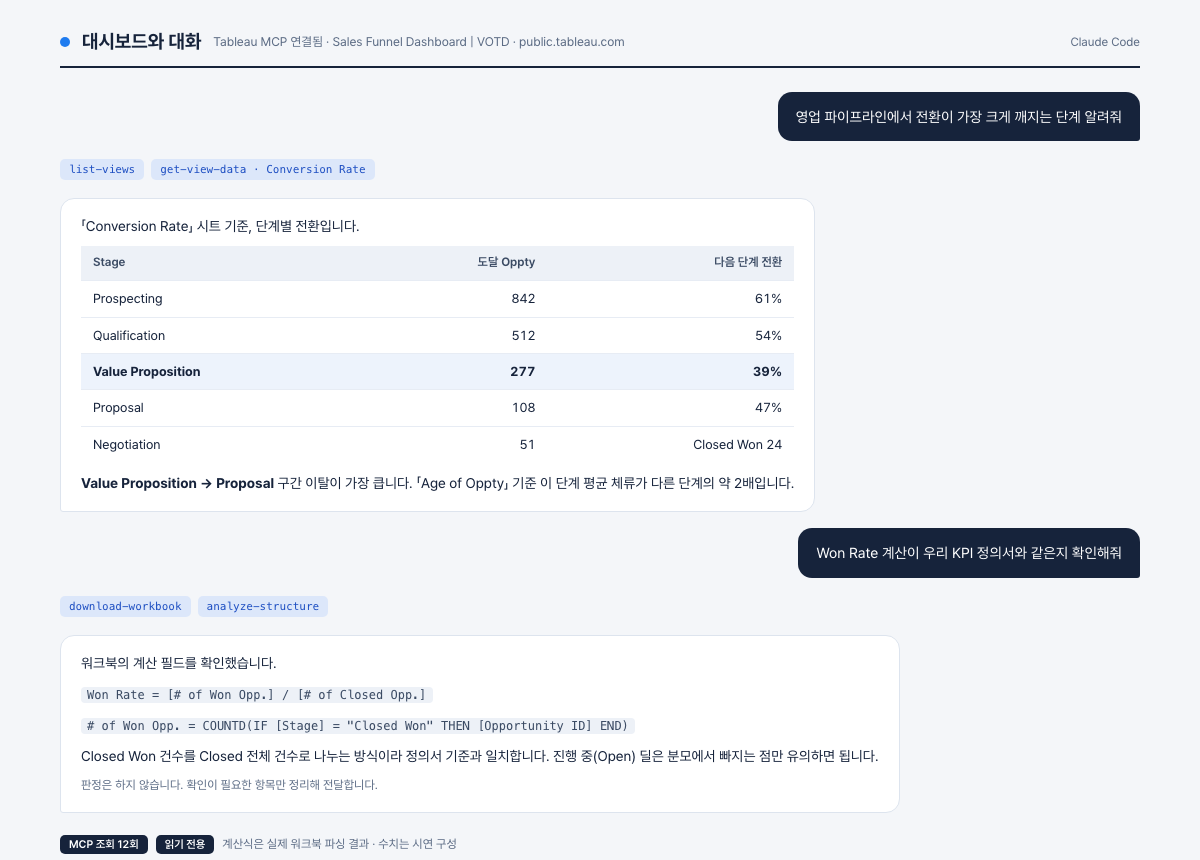
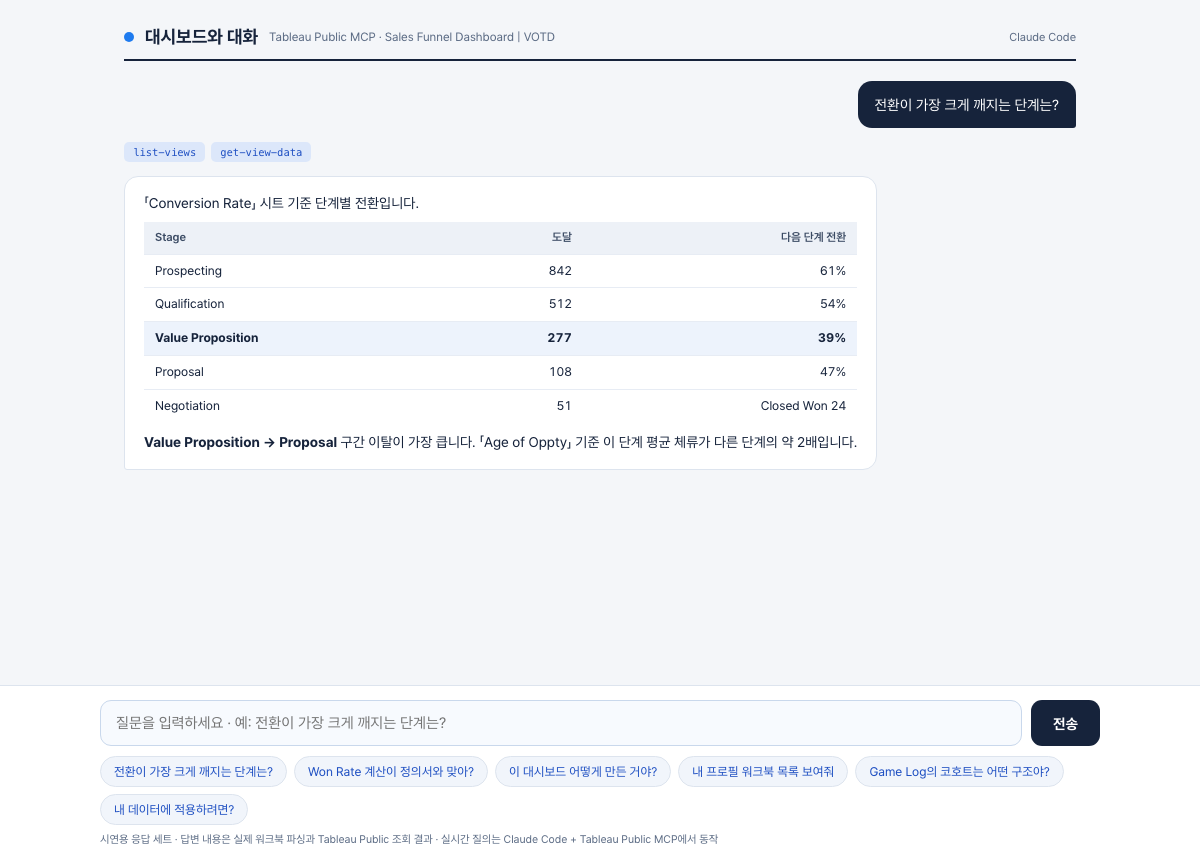
demo_chat 입력 가능한 시연 화면으로 전환

diff --git a/usecases/demo_chat.html b/usecases/demo_chat.html
@@ -2,37 +2,52 @@
 <html lang="ko">
 <head>
 <meta charset="utf-8">
-<title>대시보드와 대화</title>
+<meta name="viewport" content="width=device-width, initial-scale=1">
+<title>대시보드와 대화 · 시연</title>
 <style>
 *{box-sizing:border-box;margin:0;padding:0}
 body{font-family:'Pretendard','Apple SD Gothic Neo',sans-serif;background:#F4F6F9;color:#16233B;
   -webkit-font-smoothing:antialiased}
-.page{max-width:1160px;margin:0 auto;padding:30px 40px 38px}
-.hd{display:flex;align-items:center;gap:12px;border-bottom:2px solid #16233B;padding-bottom:13px}
+.page{max-width:1000px;margin:0 auto;padding:26px 24px 120px}
+.hd{display:flex;align-items:center;gap:11px;border-bottom:2px solid #16233B;padding-bottom:12px}
 .hd .dot{width:10px;height:10px;border-radius:50%;background:#1E7BEF}
-.hd h1{font-size:19px;font-weight:700}
-.hd .sub{font-size:12.5px;color:#5B6B84}
-.hd .gen{margin-left:auto;font-size:12px;color:#5B6B84}
-.chat{margin-top:24px;display:flex;flex-direction:column;gap:16px}
-.u{align-self:flex-end;max-width:62%;background:#16233B;color:#fff;border-radius:14px 14px 3px 14px;
-  padding:13px 18px;font-size:14.5px;line-height:1.6}
-.chips{display:flex;gap:7px;align-items:center;margin:2px 0}
-.chip{font-family:'SF Mono',Menlo,monospace;font-size:11px;background:#E4EBF5;color:#3A4A63;
+.hd h1{font-size:18px;font-weight:700}
+.hd .sub{font-size:12px;color:#5B6B84}
+.hd .gen{margin-left:auto;font-size:11.5px;color:#5B6B84}
+.chat{margin-top:20px;display:flex;flex-direction:column;gap:14px}
+.u{align-self:flex-end;max-width:68%;background:#16233B;color:#fff;border-radius:14px 14px 3px 14px;
+  padding:12px 17px;font-size:14.5px;line-height:1.6}
+.chips{display:flex;gap:6px;flex-wrap:wrap}
+.chip{font-family:'SF Mono',Menlo,monospace;font-size:10.5px;background:#DCE7FA;color:#1E4FC2;
   border-radius:5px;padding:4px 9px}
-.chip.h{background:#DCE7FA;color:#1E4FC2}
-.a{align-self:flex-start;max-width:78%;background:#fff;border:1px solid #DDE4EE;border-radius:14px 14px 14px 3px;
-  padding:16px 20px;font-size:14px;line-height:1.65}
-.a p{margin-bottom:8px}
-.a p:last-child{margin-bottom:0}
-.a table{width:100%;border-collapse:collapse;font-size:13px;margin:6px 0 10px}
-.a th{text-align:left;color:#3A4A63;background:#EDF1F7;font-weight:600;padding:7px 12px;font-size:12px}
-.a td{padding:7px 12px;border-top:1px solid #E7ECF4}
+.a{align-self:flex-start;max-width:82%;background:#fff;border:1px solid #DDE4EE;
+  border-radius:14px 14px 14px 3px;padding:15px 19px;font-size:14px;line-height:1.66}
+.a p{margin-bottom:7px}.a p:last-child{margin-bottom:0}
+.a table{width:100%;border-collapse:collapse;font-size:12.5px;margin:6px 0 9px}
+.a th{text-align:left;background:#EDF1F7;color:#3A4A63;font-weight:600;padding:6px 11px;font-size:11.5px}
+.a td{padding:6px 11px;border-top:1px solid #E7ECF4}
 .a .num{text-align:right;font-variant-numeric:tabular-nums}
 .a .hl td{background:#EDF3FC;font-weight:700}
-code{font-family:'SF Mono',Menlo,monospace;font-size:12px;background:#EDF1F7;border-radius:4px;padding:1px 6px;color:#3A4A63}
-.note{font-size:12px;color:#5B6B84}
-.foot{margin-top:22px;display:flex;gap:8px;align-items:center;font-size:12px;color:#5B6B84}
-.foot .b{background:#16233B;color:#fff;border-radius:5px;padding:3px 9px;font-size:11px;font-weight:600}
+code{font-family:'SF Mono',Menlo,monospace;font-size:11.5px;background:#EDF1F7;border-radius:4px;
+  padding:2px 6px;color:#3A4A63;word-break:break-all}
+.note{font-size:11.5px;color:#5B6B84}
+.typing span{display:inline-block;width:6px;height:6px;border-radius:50%;background:#9DB4D4;margin-right:3px;
+  animation:b 1s infinite}
+.typing span:nth-child(2){animation-delay:.15s}.typing span:nth-child(3){animation-delay:.3s}
+@keyframes b{0%,60%,100%{opacity:.3}30%{opacity:1}}
+.bar{position:fixed;left:0;right:0;bottom:0;background:#fff;border-top:1px solid #DDE4EE;padding:14px 24px}
+.barin{max-width:1000px;margin:0 auto}
+.row{display:flex;gap:9px}
+input{flex:1;border:1px solid #C9D8EC;border-radius:11px;padding:13px 15px;font-size:15px;
+  font-family:inherit;color:#16233B;background:#F7FAFE}
+input:focus{outline:2px solid #1E4FC2;background:#fff}
+button{background:#16233B;color:#fff;border:0;border-radius:11px;padding:0 22px;font-size:14.5px;
+  font-weight:700;font-family:inherit;cursor:pointer}
+.qs{display:flex;gap:7px;flex-wrap:wrap;margin-top:10px}
+.q{background:#F1F5FB;border:1px solid #DDE4EE;border-radius:999px;padding:7px 13px;font-size:12.5px;
+  color:#1E4FC2;cursor:pointer}
+.q:hover{border-color:#1E4FC2}
+.foot{max-width:1000px;margin:8px auto 0;font-size:11px;color:#5B6B84}
 </style>
 </head>
 <body>
@@ -40,44 +55,117 @@ code{font-family:'SF Mono',Menlo,monospace;font-size:12px;background:#EDF1F7;bor
   <div class="hd">
     <span class="dot"></span>
     <h1>대시보드와 대화</h1>
-    <span class="sub">Tableau MCP 연결됨 · Sales Funnel Dashboard | VOTD · public.tableau.com</span>
+    <span class="sub">Tableau Public MCP · Sales Funnel Dashboard | VOTD</span>
     <span class="gen">Claude Code</span>
   </div>
-
-  <div class="chat">
-    <div class="u">영업 파이프라인에서 전환이 가장 크게 깨지는 단계 알려줘</div>
-
-    <div class="chips"><span class="chip h">list-views</span><span class="chip h">get-view-data · Conversion Rate</span></div>
-    <div class="a">
-      <p>「Conversion Rate」 시트 기준, 단계별 전환입니다.</p>
-      <table>
-        <tr><th>Stage</th><th class="num" style="text-align:right">도달 Oppty</th><th class="num" style="text-align:right">다음 단계 전환</th></tr>
-        <tr><td>Prospecting</td><td class="num">842</td><td class="num">61%</td></tr>
-        <tr><td>Qualification</td><td class="num">512</td><td class="num">54%</td></tr>
-        <tr class="hl"><td>Value Proposition</td><td class="num">277</td><td class="num">39%</td></tr>
-        <tr><td>Proposal</td><td class="num">108</td><td class="num">47%</td></tr>
-        <tr><td>Negotiation</td><td class="num">51</td><td class="num">Closed Won 24</td></tr>
-      </table>
-      <p><b>Value Proposition → Proposal</b> 구간 이탈이 가장 큽니다. 「Age of Oppty」 기준 이 단계 평균 체류가 다른 단계의 약 2배입니다.</p>
-    </div>
-
-    <div class="u">Won Rate 계산이 우리 KPI 정의서와 같은지 확인해줘</div>
-
-    <div class="chips"><span class="chip h">download-workbook</span><span class="chip h">analyze-structure</span></div>
-    <div class="a">
-      <p>워크북의 계산 필드를 확인했습니다.</p>
-      <p><code>Won Rate = [# of Won Opp.] / [# of Closed Opp.]</code></p>
-      <p><code># of Won Opp. = COUNTD(IF [Stage] = "Closed Won" THEN [Opportunity ID] END)</code></p>
-      <p>Closed Won 건수를 Closed 전체 건수로 나누는 방식이라 정의서 기준과 일치합니다. 진행 중(Open) 딜은 분모에서 빠지는 점만 유의하면 됩니다.</p>
-      <p class="note">판정은 하지 않습니다. 확인이 필요한 항목만 정리해 전달합니다.</p>
-    </div>
-  </div>
-
-  <div class="foot">
-    <span class="b">MCP 조회 12회</span>
-    <span class="b">읽기 전용</span>
-    <span>계산식은 실제 워크북 파싱 결과 · 수치는 시연 구성</span>
-  </div>
+  <div class="chat" id="chat"></div>
 </div>
+
+<div class="bar">
+  <div class="barin">
+    <div class="row">
+      <input id="q" placeholder="질문을 입력하세요 · 예: 전환이 가장 크게 깨지는 단계는?" autocomplete="off">
+      <button id="send">전송</button>
+    </div>
+    <div class="qs" id="qs"></div>
+  </div>
+  <p class="foot">시연용 응답 세트 · 답변 내용은 실제 워크북 파싱과 Tableau Public 조회 결과 · 실시간 질의는 Claude Code + Tableau Public MCP에서 동작</p>
+</div>
+
+<script>
+'use strict';
+var A = [
+ { k:['전환','퍼널','병목','깨지','단계'],
+   tools:['list-views','get-view-data'],
+   html:'<p>「Conversion Rate」 시트 기준 단계별 전환입니다.</p>'+
+   '<table><tr><th>Stage</th><th class="num">도달</th><th class="num">다음 단계 전환</th></tr>'+
+   '<tr><td>Prospecting</td><td class="num">842</td><td class="num">61%</td></tr>'+
+   '<tr><td>Qualification</td><td class="num">512</td><td class="num">54%</td></tr>'+
+   '<tr class="hl"><td>Value Proposition</td><td class="num">277</td><td class="num">39%</td></tr>'+
+   '<tr><td>Proposal</td><td class="num">108</td><td class="num">47%</td></tr>'+
+   '<tr><td>Negotiation</td><td class="num">51</td><td class="num">Closed Won 24</td></tr></table>'+
+   '<p><b>Value Proposition → Proposal</b> 구간 이탈이 가장 큽니다. 「Age of Oppty」 기준 이 단계 평균 체류가 다른 단계의 약 2배입니다.</p>' },
+
+ { k:['won','수주율','승률','계산식','정의','맞는지','검증'],
+   tools:['download-workbook','analyze-structure'],
+   html:'<p>워크북 계산 필드를 확인했습니다.</p>'+
+   '<p><code>Won Rate = [# of Won Opp.] / [# of Closed Opp.]</code></p>'+
+   '<p><code># of Won Opp. = COUNTD(IF [Stage] = "Closed Won" THEN [Opportunity ID] END)</code></p>'+
+   '<p>Closed Won 건수를 Closed 전체로 나누는 방식이라 정의서 기준과 일치합니다. 진행 중(Open) 딜은 분모에서 빠지는 점만 유의하면 됩니다.</p>'+
+   '<p class="note">판정은 하지 않습니다. 확인이 필요한 항목만 정리해 전달합니다.</p>' },
+
+ { k:['구조','시트','만든','제작','파라미터','어떻게'],
+   tools:['get-workbook-details','analyze-structure'],
+   html:'<p>워크북 구성입니다.</p>'+
+   '<p>시트 16개 · 대시보드 1개(Sales Pipeline Dashboard) · 파라미터 2개(Top N Accounts · padding)</p>'+
+   '<p>시트 이름 규칙: <code>T_</code> 접두 = 툴팁 전용 7개 · <code>B_</code> 접두 = 하단 KPI 카드 4개</p>'+
+   '<p>계산 필드 27개 중 구조를 만드는 것:</p>'+
+   '<p><code>Sort = CASE [Stage] WHEN "Prospecting" THEN 1 …</code> 퍼널 정렬</p>'+
+   '<p><code>Age of Oppty = {FIXED [Opportunity ID]: MAX(DATEDIFF("day", [CreatedDate], …))}</code></p>'+
+   '<p><code>Avg.Deal Size = SUM({FIXED [Opportunity ID]: MAX([Expected Amount])}) / COUNTD([Opportunity ID])</code></p>' },
+
+ { k:['프로필','워크북 목록','조회수','팔로워','누구'],
+   tools:['get-profile','list-workbooks'],
+   html:'<p>프로필 <code>.83057946</code> 조회 결과입니다.</p>'+
+   '<p>Seoyeon Jun · Tableau Visionary · 5X Public Ambassador · 4X VOTD · 팔로워 2,086 · 공개 워크북 35개</p>'+
+   '<table><tr><th>워크북</th><th class="num">조회수</th><th class="num">즐겨찾기</th></tr>'+
+   '<tr class="hl"><td>Sales Funnel Dashboard | VOTD</td><td class="num">104,444</td><td class="num">1,405</td></tr>'+
+   '<tr><td>Game Log Dashboard</td><td class="num">12,753</td><td class="num">68</td></tr>'+
+   '<tr><td>Shining Stars | VOTD</td><td class="num">11,145</td><td class="num">225</td></tr>'+
+   '<tr><td>SNS Log Dashboard</td><td class="num">5,109</td><td class="num">5</td></tr></table>' },
+
+ { k:['코호트','리텐션','game','게임'],
+   tools:['get-workbook-details'],
+   html:'<p>Game Log Dashboard의 리텐션 영역은 주간 코호트 매트릭스 구조입니다.</p>'+
+   '<p>첫 이벤트 주를 코호트로 잡고 W0~W9 잔존율을 히트맵으로 표시합니다. Tableau에서는 <code>{FIXED [User]: MIN([Event Date])}</code> 계열 LOD와 주차 차이 계산이 필요합니다.</p>'+
+   '<p class="note">같은 결과를 LOD 없이 만드는 방법은 오늘 마지막 Extension 파트에서 다룹니다.</p>' },
+
+ { k:['적용','내 데이터','필요한 필드','따라'],
+   tools:['analyze-structure'],
+   html:'<p>이 구조를 그대로 쓰려면 아래 필드가 필요합니다.</p>'+
+   '<p><b>필수</b> · Opportunity ID(고유값) · Stage(단계 문자열) · Amount(금액) · CreatedDate · Close Date</p>'+
+   '<p><b>선택</b> · Expected Amount(가중 파이프라인) · Account(Top N 필터용)</p>'+
+   '<p>Stage 값이 다르면 <code>Sort</code> 계산식의 CASE 분기만 우리 단계명으로 바꾸면 됩니다.</p>' }
+];
+
+var FB = { tools:['search'], html:'<p>이 시연 화면에는 준비된 응답만 들어 있습니다. 아래 예시 질문을 눌러보세요.</p>'+
+  '<p class="note">실시간 질의는 Claude Code에 Tableau Public MCP를 연결하면 그대로 동작합니다.</p>'+
+  '<p><code>claude mcp add tableau-public -s user -- npx -y @wjsutton/tableau-public-mcp-server@latest</code></p>' };
+
+var SAMPLES = ['전환이 가장 크게 깨지는 단계는?','Won Rate 계산이 정의서와 맞아?','이 대시보드 어떻게 만든 거야?',
+  '내 프로필 워크북 목록 보여줘','Game Log의 코호트는 어떤 구조야?','내 데이터에 적용하려면?'];
+
+var chat=document.getElementById('chat');
+function el(cls,html){ var d=document.createElement('div'); d.className=cls; d.innerHTML=html; chat.appendChild(d);
+  window.scrollTo(0,document.body.scrollHeight); return d; }
+function match(q){
+  var s=q.toLowerCase(), best=null, hi=0;
+  A.forEach(function(a){
+    var n=a.k.filter(function(k){ return s.indexOf(k.toLowerCase())>=0; }).length;
+    if(n>hi){ hi=n; best=a; }
+  });
+  return best || FB;
+}
+function ask(q){
+  if(!q.trim()) return;
+  el('u', q.replace(/</g,'&lt;'));
+  var a=match(q);
+  var t=el('a','<div class="typing"><span></span><span></span><span></span></div>');
+  setTimeout(function(){
+    t.remove();
+    el('chips', a.tools.map(function(x){ return '<span class="chip">'+x+'</span>'; }).join(''));
+    el('a', a.html);
+  }, 650);
+}
+document.getElementById('send').onclick=function(){ var i=document.getElementById('q'); ask(i.value); i.value=''; };
+document.getElementById('q').addEventListener('keydown',function(e){ if(e.key==='Enter'){ ask(this.value); this.value=''; }});
+var qs=document.getElementById('qs');
+SAMPLES.forEach(function(x){
+  var b=document.createElement('div'); b.className='q'; b.textContent=x;
+  b.onclick=function(){ ask(x); };
+  qs.appendChild(b);
+});
+ask('전환이 가장 크게 깨지는 단계는?');
+</script>
 </body>
 </html>

diff --git a/index.html b/index.html
@@ -1342,7 +1342,7 @@ a.live .lu{font-family:var(--mono);font-size:12px;color:var(--accent);word-break
         <h3 class="colhead" style="font-size:17px;margin:16px 0 6px">이렇게 나옵니다</h3>
         <div class="body" style="font-size:15.5px;line-height:1.7"><ul><li>어느 단계에서 전환이 깨지는지 답변</li><li>워크북 계산식을 꺼내 정의서와 대조</li><li>궁금한 부분을 이어서 계속 질문</li></ul></div>
         <h3 class="colhead" style="font-size:17px;margin:16px 0 6px">이렇게 씁니다</h3>
-        <p class="body" style="font-size:15.5px;line-height:1.65">Claude에 Tableau를 연결하고 평소 말투로 질문</p>
+        <p class="body" style="font-size:15.5px;line-height:1.65">질문 입력 · 예시 버튼 클릭 · 실시간 질의는 Claude Code에서</p>
         <a class="live" href="https://seoyeon924.github.io/datafam-seoul-2026/usecases/demo_chat.html" target="_blank" rel="noopener"><span>LIVE</span><span class="lu">usecases/demo_chat.html</span></a>
       </div>
     </div>
